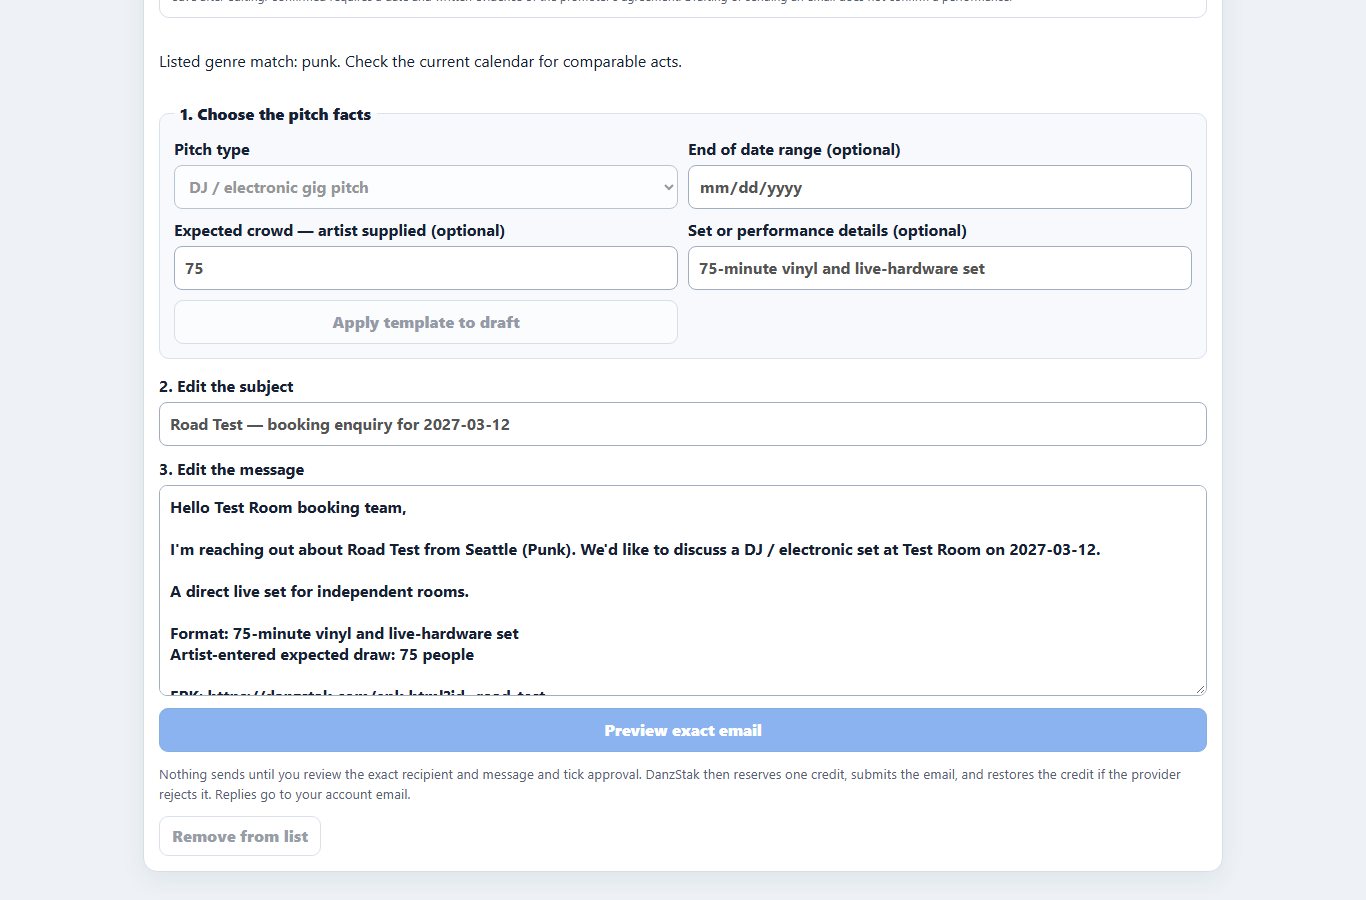
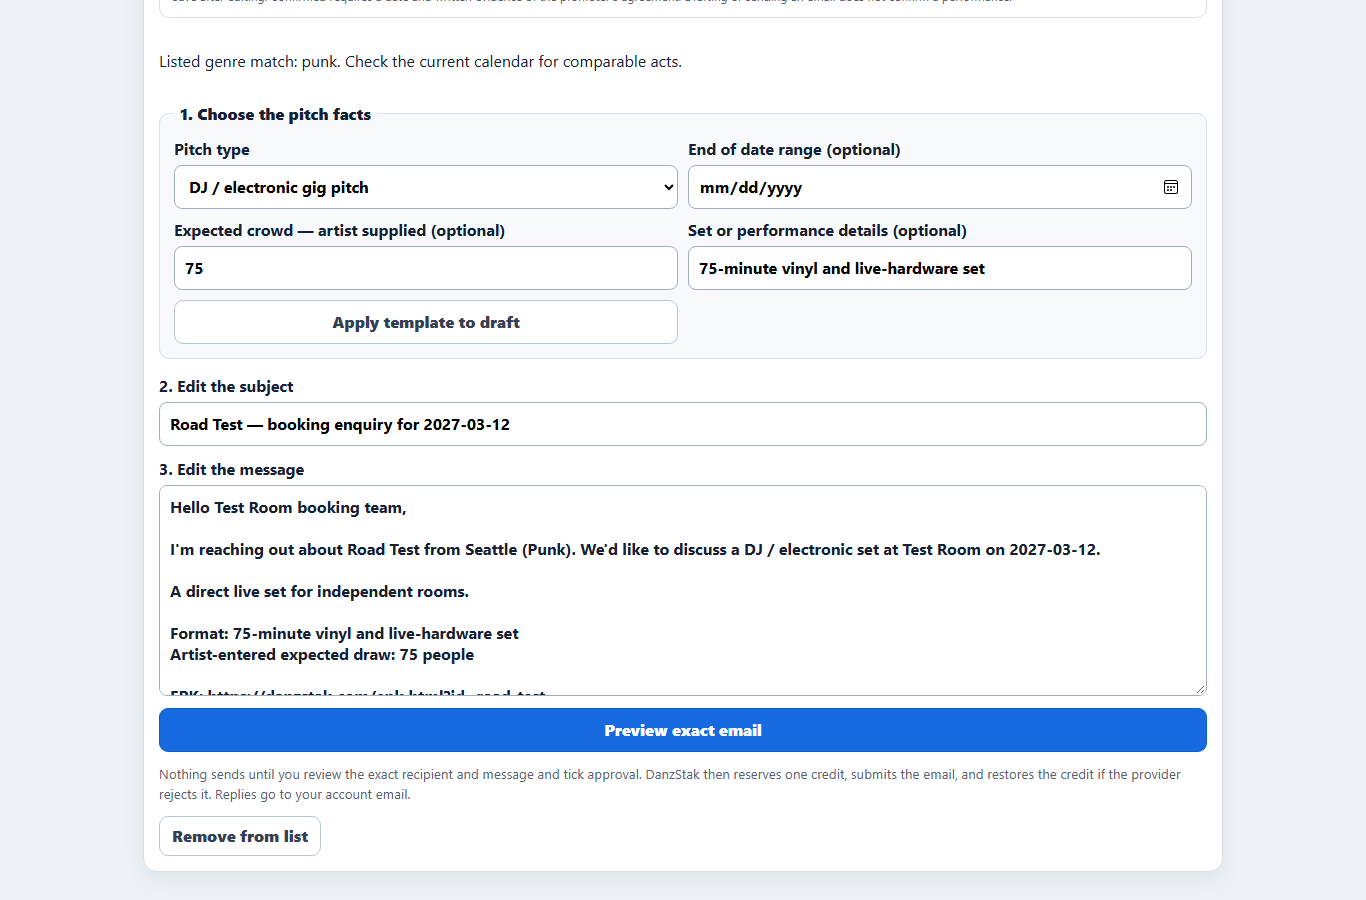
Record booking pitch production verification

diff --git a/docs/DANZSTAK-DEVELOPMENT-REPORT.md b/docs/DANZSTAK-DEVELOPMENT-REPORT.md
@@ -2,7 +2,7 @@
 
 ## Reviewed booking pitch workflow — 2026-11-07
 
-Status: **IMPLEMENTED AND VERIFIED ON ISOLATED STAGING; PRODUCTION NOT DEPLOYED**.
+Status: **DEPLOYED AND VERIFIED ON THE LIVE PWA AND AUTH API; PHYSICAL INSTALLED-PWA ACCEPTANCE REMAINS**.
 
 - Each saved venue now has an intentional **Choose facts → Edit subject → Edit message → Preview exact email → Approve and send** path. Artists can start from band-tour, DJ/electronic-gig or festival copy, then edit every character before anything is sent.
 - Optional date-range, artist-entered expected-crowd and set/performance fields persist in the private booking workspace. The UI labels crowd claims as artist supplied and never invents audience demand, availability or terms. Reapplying a template asks before replacing an edited draft.
@@ -12,7 +12,8 @@ Status: **IMPLEMENTED AND VERIFIED ON ISOLATED STAGING; PRODUCTION NOT DEPLOYED*
 - Functional/integration evidence: `test-booking-pitch-review.cjs`, Tour Manager dashboard/email-credit tests, PWA/static-link tests and the complete `test-regressions.ps1` gate pass. The full gate includes authentication, account isolation, Feed, Friends, Notifications, SYNC, media/audio, Booking discovery, EPK, Stripe safeguards, 11-page smoke coverage and infrastructure validation. No product failure was waived.
 - Responsive evidence: `browser-checks/booking-pitch-review.cjs` passes locally and against the isolated Amplify preview at 320, 360, 390, 414, 430 and 1366px, including exact preview content, approval gating, request payload, touch geometry and zero overflow. Captures in `docs/screenshots/booking-pitch-review/` were inspected before review.
 - Review/staging evidence: PR `#95` required checks passed for implementation head `6b7d5751ee349f80067e484207661251996df973`. Amplify DEVELOPMENT branch `codex/booking-pitch-review`, job `1`, succeeded in `us-west-1` at 2026-11-07 04:37:04 Europe/Berlin. No-cache probes of `https://codex-booking-pitch-review.d31oovi2mos5iz.amplifyapp.com/booking-selections.html` confirm booking JS v13, CSS v6 and `danzstak-shell-v696`.
-- Deployment boundary: production frontend and Auth API remain unchanged. Merge, production Amplify delivery, guarded Auth API deployment and live browser/API verification are still required before this slice is marked complete.
+- Production release: PR `#95` merged as `78e25fbd94a156536df88769de4d02136c1f2717`. AWS Amplify app `d31oovi2mos5iz`, production branch `main`, job `941` succeeded in `us-west-1` from 2026-11-07 04:41:42 to 04:42:36 Europe/Berlin. The matching `DANZSTAK-Auth-API` package was deployed successfully through the repository's guarded deployment script; Lambda reported a successful update at 04:45:51 Europe/Berlin.
+- Post-deployment evidence: no-cache production probes confirm booking JS v13, CSS v6 and `danzstak-shell-v696`. The six-width booking-pitch browser matrix passes directly against `https://danzstak.com`, the bounded live-release verifier passes, and an unauthenticated send request is rejected with HTTP 403. No payment configuration, secret or unrelated AWS resource changed. A signed-in physical installed-PWA send remains owner acceptance evidence; automated approval, entitlement, idempotency and credit restoration coverage passes.
 
 ## Five-minute EPK builder — 2026-11-07
 
